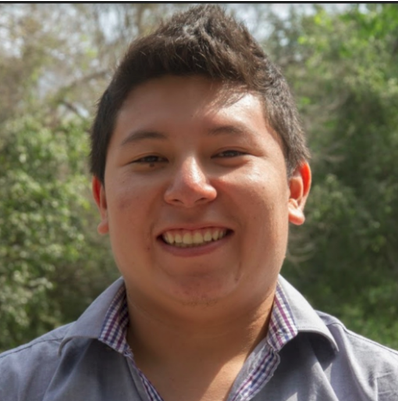
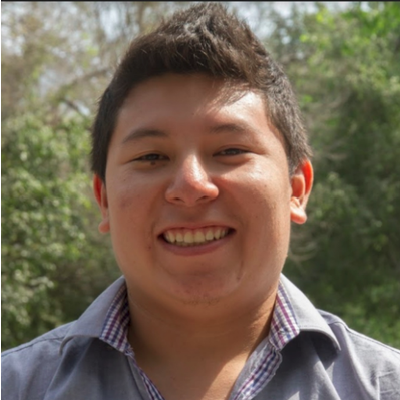
cambio de imagenes de fundadores

diff --git a/unfold-free-lite/assets/js/modal.js b/unfold-free-lite/assets/js/modal.js
@@ -2,7 +2,7 @@
 const dataFounders = {
     arturoBadillo: {
         name: 'Arturo Badillo',
-        img: './assets/images/history_cs/arturo-badillo.jpeg',
+        img: './assets/images/history_cs/arturo-badillo.png',
         alt: 'Arturo Badillo',
         position: '1er Vicepresidente - Fundador',
         ocupation: 'Backend Senior Developer en Banco de Comercio.',
@@ -104,7 +104,7 @@ fnGeneratorContentModal = (pClassContent, pClassBody, pContentTemplate) => {
             <div id="div-position-founder-modal" class="text-center mt-1 mb-1 font-size text-primary">${pContentTemplate.position}</div>
             <div id="div-ocupation-founder-modal" class="text-center mt-1 mb-1 font-size mb-1 pr-1 pl-1">Actualmente se desempeña como ${pContentTemplate.ocupation}</div>
             <div id="div-commentary-founder-modal" class="text-center mt-1 mb-1 pr-1 pl-1">
-                <p class="text-center font-size">Sobre su experiencia en Computer Society, comenta: "${pContentTemplate.commentary}".</p>
+                <p class="text-center font-size">${(!!pContentTemplate.commentary) ? `Sobre su experiencia en Computer Society, comenta: "${pContentTemplate.commentary}".` : ''}</p>
             </div>
         </div>
         `;

diff --git a/unfold-free-lite/index.html b/unfold-free-lite/index.html
@@ -285,7 +285,7 @@
               <h2 class="action-title">Fundadores</h2>
               <div id="div-container-founders" class="d-flex justify-content-center align-items-center">
                 <div class="d-flex justify-content-center div-item-img single-work">
-                  <img src="./assets/images/history_cs/arturo-badillo.jpeg" alt="" class="container-item-founder rounded-circle item-img">
+                  <img src="./assets/images/history_cs/arturo-badillo.png" alt="" class="container-item-founder rounded-circle item-img">
                   <section
                     class="div-item-img rounded-circle work-overlay m-0 d-flex flex-column align-items-center justify-content-center">
                     <div class="work-content">
